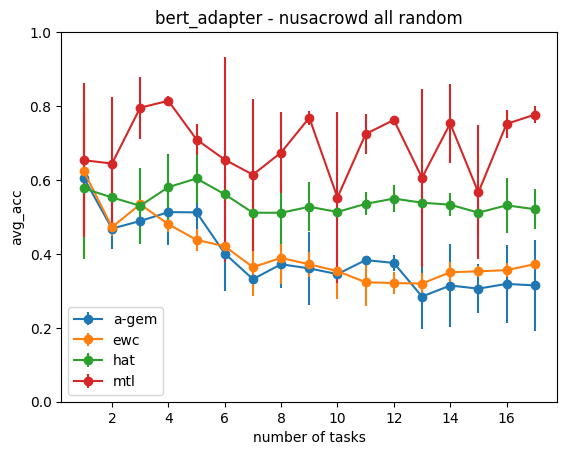
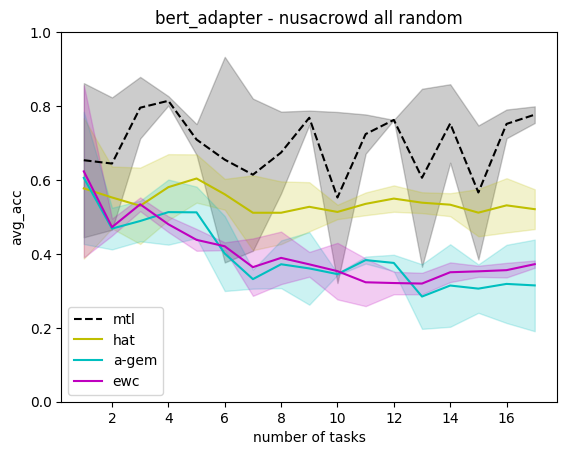
update viz

Changed region(s): [[0.1199, 0.1231, 0.9594, 0.7385], [0.1199, 0.6769, 0.2698, 0.8615]]

diff --git a/src/utils.py b/src/utils.py
@@ -711,16 +711,33 @@ def visualize(dir_name, exp_id, output, case_name, task):
       plt.savefig(f"{output}_{metrics}_{exp_id}.png", bbox_inches='tight')
 
 def create_viz(list_dataframe, title, legend, xlabel, ylabel, filename, list_exp_id):    
-    for dataframe in list_dataframe:
-        if 'mtl' in filename or 'one' in filename:
-            plt.errorbar([(i+1) for i in range(len(dataframe))], calculate(dataframe, "avg"), calculate(dataframe, "std"), fmt ='o')
-        else:
-            plt.errorbar([(i+1) for i in range(len(dataframe))], calculate(dataframe, "avg"), calculate(dataframe, "std"), fmt ='o-')
+    color_const = {
+        'a-gem': ['c-', 'c'],
+        'ewc': ['m-', 'm'],
+        'hat': ['y-', 'y'],
+        'kan': ['g-', 'g'],
+        'ncl': ['r-', 'r'],
+        'one': ['b--', 'b'],
+        'mtl': ['k--', 'k'],
+        
+        'bert': ['c-', 'c'],
+        'bert_frozen': ['m-', 'm'],
+        'bert_adapter': ['y-', 'y']
+    }
+    
+    
+    for i in range (len(list_dataframe)):
+            x_indices = [(i+1) for i in range(len(list_dataframe[i]))]
+            avg = calculate(list_dataframe[i], "avg")
+            std = calculate(list_dataframe[i], "std")
+            
+            plt.plot(x_indices, avg, color_const[legend[i]][0], label=legend[i])
+            plt.fill_between(x_indices, [(avg[i]-std[i]) for i in range (len(avg))], [(avg[i]+std[i]) for i in range (len(avg))], color= color_const[legend[i]][1], alpha=0.2)
     
     plt.title(title.replace('_.txt', ''))
     plt.xlabel(xlabel)
     plt.ylabel(ylabel)
-    plt.legend(legend)
+    plt.legend()
 
     if 'lss' not in filename:
         plt.ylim(0, 1)
@@ -728,7 +745,7 @@ def create_viz(list_dataframe, title, legend, xlabel, ylabel, filename, list_exp
     plt.savefig(filename, bbox_inches='tight')
     plt.close()
         
-def merge_viz(dir_name, list_exp_id, list_backbone, list_baseline, case_name, metrics, typ): # perlu dimodif
+def merge_viz(dir_name, list_exp_id, list_backbone, list_baseline, case_name, metrics, typ):
   list_df = []
   
   for i in range (len(list_exp_id)):
@@ -792,24 +809,24 @@ if __name__ == "__main__":
     #         visualize('', row['exp_id'], f"res/til_classification/nusacrowd/{row['exp_id']} - {row['backbone']}_{row['baseline']}_.txt/{row['backbone']}_{row['baseline']}_.txt", 'nusacrowd_all_random', 'nusacrowd')
     
     # create viz for backbone and baseline combination
-    # list_create_viz = [
-    #     # multi_baseline
-    #     [['bert'], ['mtl', 'ncl', 'one'], 'multi_baseline'],
-    #     [['bert_adapter'], ['a-gem', 'ewc', 'hat', 'mtl'], 'multi_baseline'],
-    #     [['bert_frozen'], ['a-gem', 'ewc', 'hat', 'kan', 'ncl', 'one'], 'multi_baseline'],
+    list_create_viz = [
+        # multi_baseline
+        [['bert'], ['mtl', 'one', 'ncl'], 'multi_baseline'],
+        [['bert_adapter'], ['mtl', 'hat', 'a-gem', 'ewc'], 'multi_baseline'],
+        [['bert_frozen'], ['one', 'a-gem', 'hat', 'kan', 'ncl', 'ewc'], 'multi_baseline'],
         
-    #     # multi_backbone
-    #     [['bert_adapter', 'bert_frozen'], ['a-gem'], 'multi_backbone'],
-    #     [['bert_adapter', 'bert_frozen'], ['ewc'], 'multi_backbone'],
-    #     [['bert_adapter', 'bert_frozen'], ['hat'], 'multi_backbone'],
-    #     [['bert_frozen'], ['kan'], 'multi_backbone'],
-    #     [['bert', 'bert_adapter'], ['mtl'], 'multi_backbone'],
-    #     [['bert', 'bert_frozen'], ['ncl'], 'multi_backbone'],
-    #     [['bert', 'bert_frozen'], ['one'], 'multi_backbone'],
-    # ]
+        # multi_backbone
+        [['bert_adapter', 'bert_frozen'], ['a-gem'], 'multi_backbone'],
+        [['bert_adapter', 'bert_frozen'], ['ewc'], 'multi_backbone'],
+        [['bert_adapter', 'bert_frozen'], ['hat'], 'multi_backbone'],
+        [['bert_frozen'], ['kan'], 'multi_backbone'],
+        [['bert', 'bert_adapter'], ['mtl'], 'multi_backbone'],
+        [['bert', 'bert_frozen'], ['ncl'], 'multi_backbone'],
+        [['bert', 'bert_frozen'], ['one'], 'multi_backbone']
+    ]
     
-    # for elmt in list_create_viz:
-    #     run_create_viz(elmt[0], elmt[1], 'nusacrowd all random', elmt[2])
+    for elmt in list_create_viz:
+        run_create_viz(elmt[0], elmt[1], 'nusacrowd all random', elmt[2])
     
     # recalculate an experiment
     # calculate_metrics(81, 'bert_adapter', 'a-gem')
@@ -818,10 +835,10 @@ if __name__ == "__main__":
     # calculate_metrics(list_exp.iterrows())
     
     # get worst forgetting
-    with open('res/til_classification/result_transfer_cl.csv', 'a', newline='') as fp:
-        for index, elmt in list_exp.iterrows():
-            csv_writer = csv.writer(fp, delimiter=',')
+    # with open('res/til_classification/result_transfer_cl.csv', 'a', newline='') as fp:
+    #     for index, elmt in list_exp.iterrows():
+    #         csv_writer = csv.writer(fp, delimiter=',')
             
-            result = get_best_transfer('', elmt['exp_id'], elmt['backbone'], elmt['baseline'], list_task[elmt['id_random']])
-            csv_writer.writerow([elmt['exp_id'], elmt['backbone'], elmt['baseline'], result['delta'], result['name_task_effected'], result['name_task_effecting'], result['id_task_effected'], result['id_task_effecting']])
+    #         result = get_best_transfer('', elmt['exp_id'], elmt['backbone'], elmt['baseline'], list_task[elmt['id_random']])
+    #         csv_writer.writerow([elmt['exp_id'], elmt['backbone'], elmt['baseline'], result['delta'], result['name_task_effected'], result['name_task_effecting'], result['id_task_effected'], result['id_task_effecting']])
             
